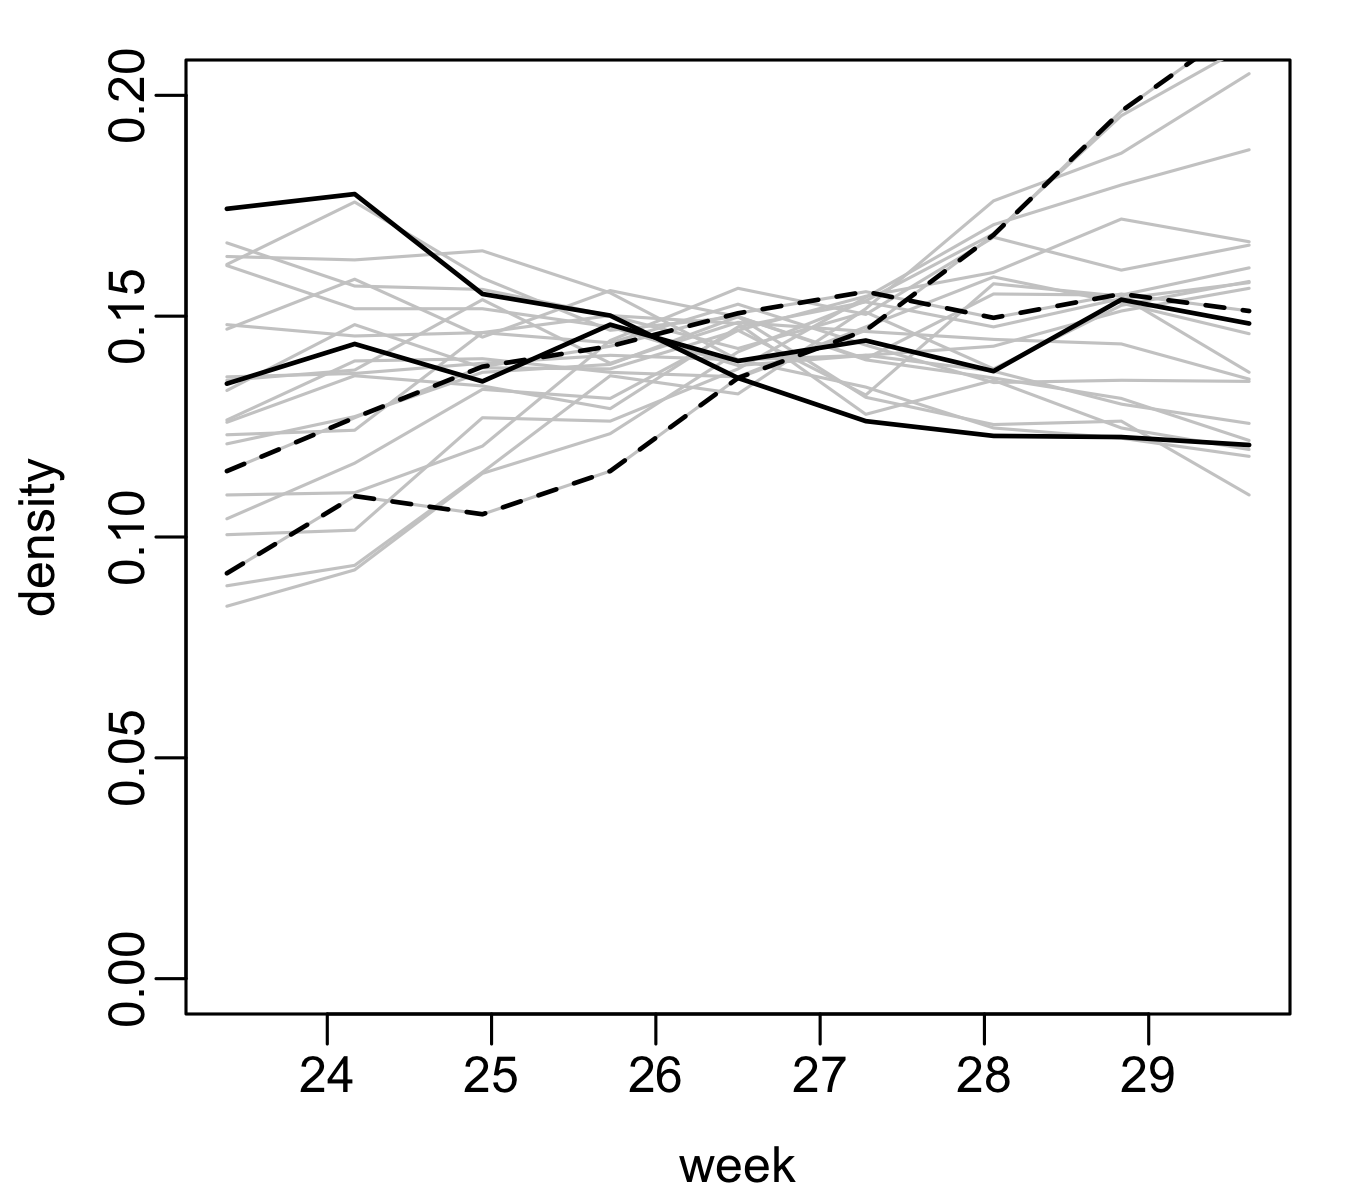
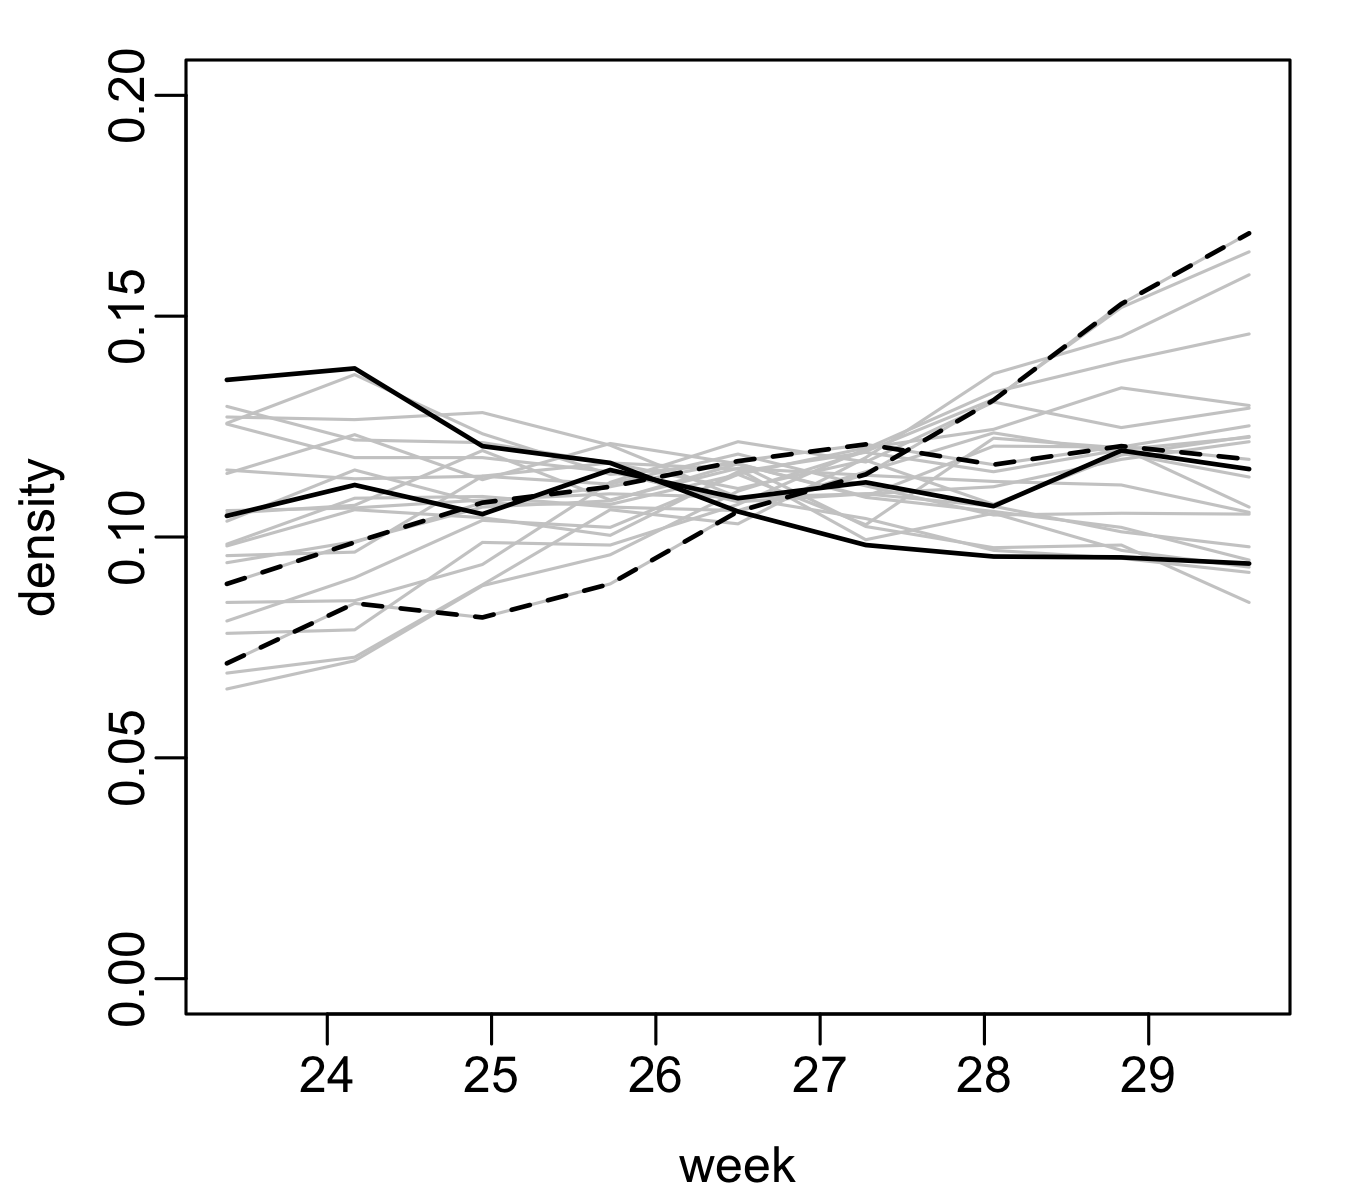
Completed inference for figure 3

Changed region(s): [[0.1556, 0.1542, 0.9333, 0.5858], [0.7778, 0.0308, 0.9022, 0.185]]

diff --git a/report/nwelch_prelim_report.tex b/report/nwelch_prelim_report.tex
@@ -397,7 +397,17 @@ These plots are useful to assessing convergence and the 50\%, 80\%, and 95\% poi
 	\label{fig:muSigmaThetaDensities}
 \end{figure} 
 
-
+Now consider the infection times. 
+Figure (\ref{fig:time_plots}) shows the distribution of infection times for plants in the interval of the first infection(s) and the interval of the last infections (\ref{fig:last_infections}). 
+The distribution of unobserved infection times during the first period shown in (\ref{fig:first_infections}) suggests that density of infection times increases slightly with passing time. 
+This slopes of the lines here are less than the results reported in \citet{Brown} for two reasons. 
+First, the results in figure (\ref{fig:time_plots}) correspond to normalized densities. 
+Furthermore, the endemic rate of infection ($\mu$) is the only parameter that influences initial infections. 
+As a result, different values of $\mu$ lead to different results in the two figures. 
+Figure (\ref{fig:last_infections}) is more consistent with the results reported in \citet{Brown} since all three model parameters contribute to infections late in the study period. 
+The dashed lines indicate the density of infection times of plants away from infected plants. 
+Black lines show the infection density of plants near plants infected at the start of the interval. 
+The results indicate that plants nearer to infected plants tend to become infected sooner than those farther away. 
 
 \begin{figure}[H]
 	\centering
@@ -413,10 +423,10 @@ These plots are useful to assessing convergence and the 50\%, 80\%, and 95\% poi
 		\label{fig:last_infections}
 	\end{subfigure}
 	\caption{(\subref{fig:first_infections}) tbd; (\subref{fig:last_infections}) tbd }
-	\label{fig:data_plot}
+	\label{fig:time_plots}
 \end{figure} 
 
-
+Figure \ref{fig:sim_epidemic}
 
 \begin{figure}[H]
 	\centering
@@ -432,7 +442,7 @@ These plots are useful to assessing convergence and the 50\%, 80\%, and 95\% poi
 		\label{fig:sim_infection}
 	\end{subfigure}
 	\caption{(\subref{fig:cond_infections}) tbd; (\subref{fig:sim_infection}) tbd }
-	\label{fig:data_plot}
+	\label{fig:sim_epidemic}
 \end{figure} 
 
 
